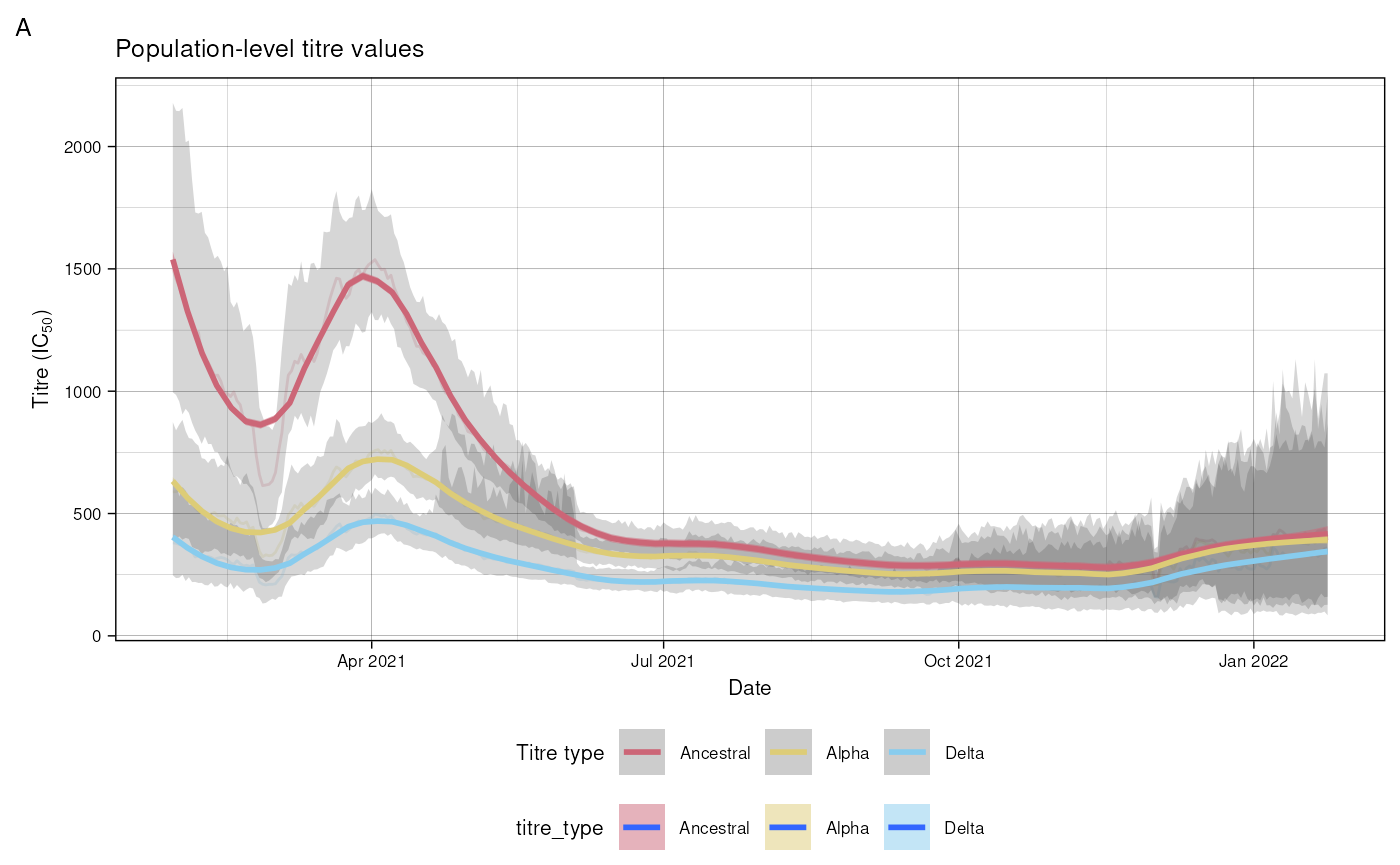
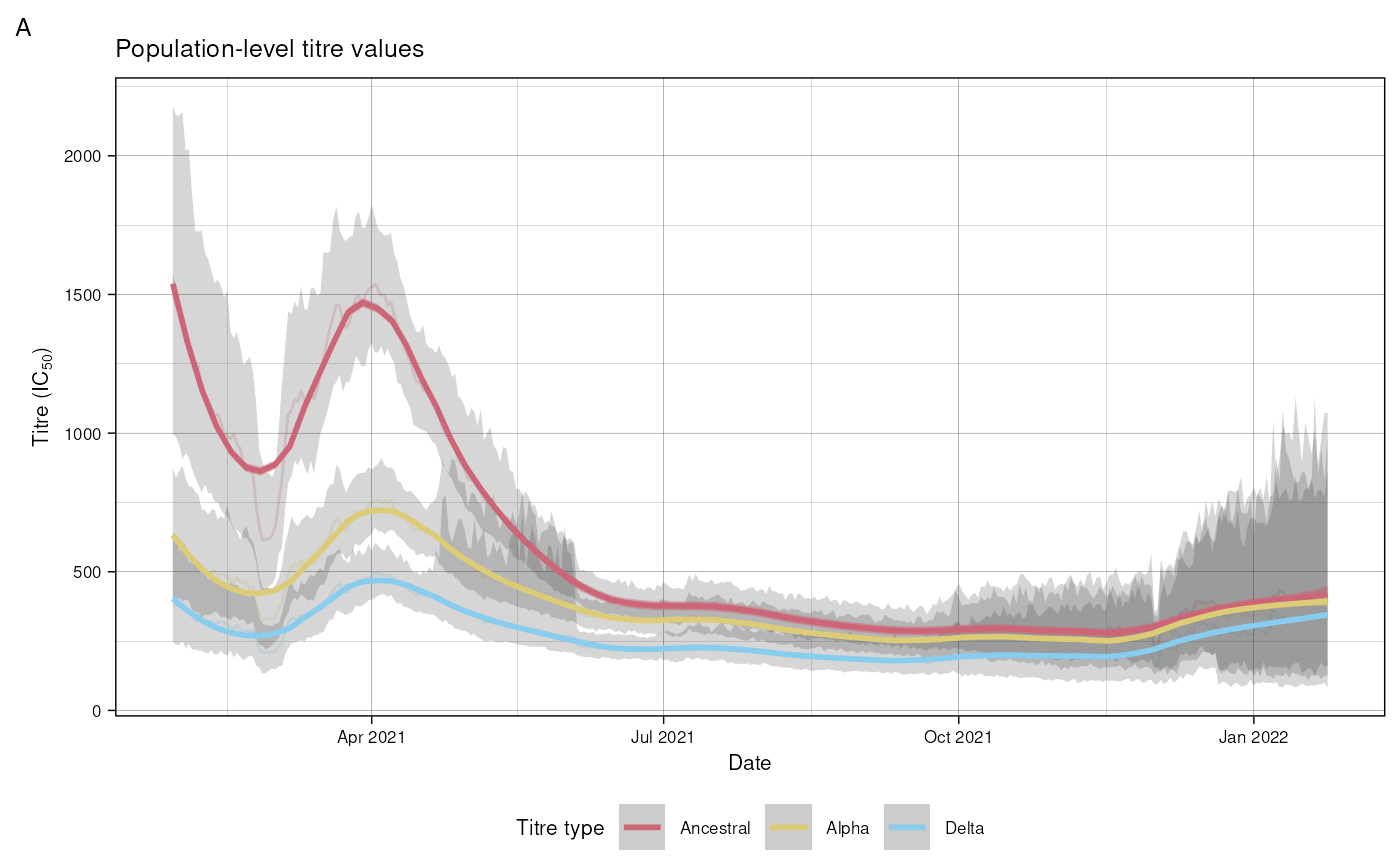
Deploying to gh-pages from @ seroanalytics/epikinetics@98d5f0659ca4f9511a96e73deaa9079b3a49cb71 🚀

diff --git a/articles/scova.html b/articles/scova.html
@@ -103,61 +103,7 @@ algorithm to limit the time it takes to compile this vignette.</p>
 <span><span class="va">delta</span> <span class="op">&lt;-</span> <span class="va">mod</span><span class="op">$</span><span class="fu">fit</span><span class="op">(</span>parallel_chains <span class="op">=</span> <span class="fl">4</span>,</span>
 <span>                 iter_warmup <span class="op">=</span> <span class="fl">50</span>,</span>
 <span>                 iter_sampling <span class="op">=</span> <span class="fl">200</span>,</span>
-<span>                 threads_per_chain <span class="op">=</span> <span class="fl">4</span><span class="op">)</span></span>
-<span><span class="co">#&gt; Running MCMC with 4 parallel chains...</span></span>
-<span><span class="co">#&gt; </span></span>
-<span><span class="co">#&gt; Chain 1 WARNING: There aren't enough warmup iterations to fit the </span></span>
-<span><span class="co">#&gt; Chain 1          three stages of adaptation as currently configured. </span></span>
-<span><span class="co">#&gt; Chain 1          Reducing each adaptation stage to 15%/75%/10% of </span></span>
-<span><span class="co">#&gt; Chain 1          the given number of warmup iterations: </span></span>
-<span><span class="co">#&gt; Chain 1            init_buffer = 7 </span></span>
-<span><span class="co">#&gt; Chain 1            adapt_window = 38 </span></span>
-<span><span class="co">#&gt; Chain 1            term_buffer = 5 </span></span>
-<span><span class="co">#&gt; Chain 1 Iteration:   1 / 250 [  0%]  (Warmup) </span></span>
-<span><span class="co">#&gt; Chain 2 WARNING: There aren't enough warmup iterations to fit the </span></span>
-<span><span class="co">#&gt; Chain 2          three stages of adaptation as currently configured. </span></span>
-<span><span class="co">#&gt; Chain 2          Reducing each adaptation stage to 15%/75%/10% of </span></span>
-<span><span class="co">#&gt; Chain 2          the given number of warmup iterations: </span></span>
-<span><span class="co">#&gt; Chain 2            init_buffer = 7 </span></span>
-<span><span class="co">#&gt; Chain 2            adapt_window = 38 </span></span>
-<span><span class="co">#&gt; Chain 2            term_buffer = 5 </span></span>
-<span><span class="co">#&gt; Chain 2 Iteration:   1 / 250 [  0%]  (Warmup)</span></span>
-<span><span class="co">#&gt; Chain 3 WARNING: There aren't enough warmup iterations to fit the </span></span>
-<span><span class="co">#&gt; Chain 3          three stages of adaptation as currently configured. </span></span>
-<span><span class="co">#&gt; Chain 3          Reducing each adaptation stage to 15%/75%/10% of </span></span>
-<span><span class="co">#&gt; Chain 3          the given number of warmup iterations: </span></span>
-<span><span class="co">#&gt; Chain 3            init_buffer = 7 </span></span>
-<span><span class="co">#&gt; Chain 3            adapt_window = 38 </span></span>
-<span><span class="co">#&gt; Chain 3            term_buffer = 5 </span></span>
-<span><span class="co">#&gt; Chain 3 Iteration:   1 / 250 [  0%]  (Warmup)</span></span>
-<span><span class="co">#&gt; Chain 4 WARNING: There aren't enough warmup iterations to fit the </span></span>
-<span><span class="co">#&gt; Chain 4          three stages of adaptation as currently configured. </span></span>
-<span><span class="co">#&gt; Chain 4          Reducing each adaptation stage to 15%/75%/10% of </span></span>
-<span><span class="co">#&gt; Chain 4          the given number of warmup iterations: </span></span>
-<span><span class="co">#&gt; Chain 4            init_buffer = 7 </span></span>
-<span><span class="co">#&gt; Chain 4            adapt_window = 38 </span></span>
-<span><span class="co">#&gt; Chain 4            term_buffer = 5 </span></span>
-<span><span class="co">#&gt; Chain 4 Iteration:   1 / 250 [  0%]  (Warmup)</span></span>
-<span><span class="co">#&gt; Chain 1 Iteration:  51 / 250 [ 20%]  (Sampling) </span></span>
-<span><span class="co">#&gt; Chain 3 Iteration:  51 / 250 [ 20%]  (Sampling) </span></span>
-<span><span class="co">#&gt; Chain 2 Iteration:  51 / 250 [ 20%]  (Sampling) </span></span>
-<span><span class="co">#&gt; Chain 4 Iteration:  51 / 250 [ 20%]  (Sampling) </span></span>
-<span><span class="co">#&gt; Chain 1 Iteration: 150 / 250 [ 60%]  (Sampling) </span></span>
-<span><span class="co">#&gt; Chain 3 Iteration: 150 / 250 [ 60%]  (Sampling) </span></span>
-<span><span class="co">#&gt; Chain 2 Iteration: 150 / 250 [ 60%]  (Sampling) </span></span>
-<span><span class="co">#&gt; Chain 4 Iteration: 150 / 250 [ 60%]  (Sampling) </span></span>
-<span><span class="co">#&gt; Chain 1 Iteration: 250 / 250 [100%]  (Sampling) </span></span>
-<span><span class="co">#&gt; Chain 1 finished in 248.3 seconds.</span></span>
-<span><span class="co">#&gt; Chain 2 Iteration: 250 / 250 [100%]  (Sampling) </span></span>
-<span><span class="co">#&gt; Chain 2 finished in 252.0 seconds.</span></span>
-<span><span class="co">#&gt; Chain 3 Iteration: 250 / 250 [100%]  (Sampling) </span></span>
-<span><span class="co">#&gt; Chain 3 finished in 252.8 seconds.</span></span>
-<span><span class="co">#&gt; Chain 4 Iteration: 250 / 250 [100%]  (Sampling) </span></span>
-<span><span class="co">#&gt; Chain 4 finished in 254.4 seconds.</span></span>
-<span><span class="co">#&gt; </span></span>
-<span><span class="co">#&gt; All 4 chains finished successfully.</span></span>
-<span><span class="co">#&gt; Mean chain execution time: 251.9 seconds.</span></span>
-<span><span class="co">#&gt; Total execution time: 254.6 seconds.</span></span></code></pre></div>
+<span>                 threads_per_chain <span class="op">=</span> <span class="fl">4</span><span class="op">)</span></span></code></pre></div>
 </div>
 <div class="section level2">
 <h2 id="figure-2">Figure 2<a class="anchor" aria-label="anchor" href="#figure-2"></a>
@@ -394,7 +340,7 @@ in the dataset until the date at which the next variant emerged.</p>
 <span>        group <span class="op">=</span> <span class="fu"><a href="https://rdrr.io/r/base/interaction.html" class="external-link">interaction</a></span><span class="op">(</span><span class="va">titre_type</span>, <span class="va">wave</span><span class="op">)</span><span class="op">)</span>,</span>
 <span>    alpha <span class="op">=</span> <span class="fl">0.5</span>, span <span class="op">=</span> <span class="fl">0.2</span><span class="op">)</span> <span class="op">+</span></span>
 <span>  <span class="va">custom_theme</span> <span class="op">+</span></span>
-<span>  <span class="fu"><a href="https://ggplot2.tidyverse.org/reference/guides.html" class="external-link">guides</a></span><span class="op">(</span>colour <span class="op">=</span> <span class="fu"><a href="https://ggplot2.tidyverse.org/reference/guide_legend.html" class="external-link">guide_legend</a></span><span class="op">(</span>title <span class="op">=</span> <span class="st">"Titre type"</span><span class="op">)</span><span class="op">)</span></span>
+<span>  <span class="fu"><a href="https://ggplot2.tidyverse.org/reference/guides.html" class="external-link">guides</a></span><span class="op">(</span>colour <span class="op">=</span> <span class="fu"><a href="https://ggplot2.tidyverse.org/reference/guide_legend.html" class="external-link">guide_legend</a></span><span class="op">(</span>title <span class="op">=</span> <span class="st">"Titre type"</span><span class="op">)</span>, fill <span class="op">=</span> <span class="st">"none"</span>,<span class="op">)</span></span>
 <span><span class="co">#&gt; `geom_smooth()` using method = 'loess' and formula = 'y ~ x'</span></span></code></pre></div>
 <p><img src="scova_files/figure-html/unnamed-chunk-8-1.png" width="700"></p>
 <p>Figure 5 C shows counterfactual trajectories varying vaccination
